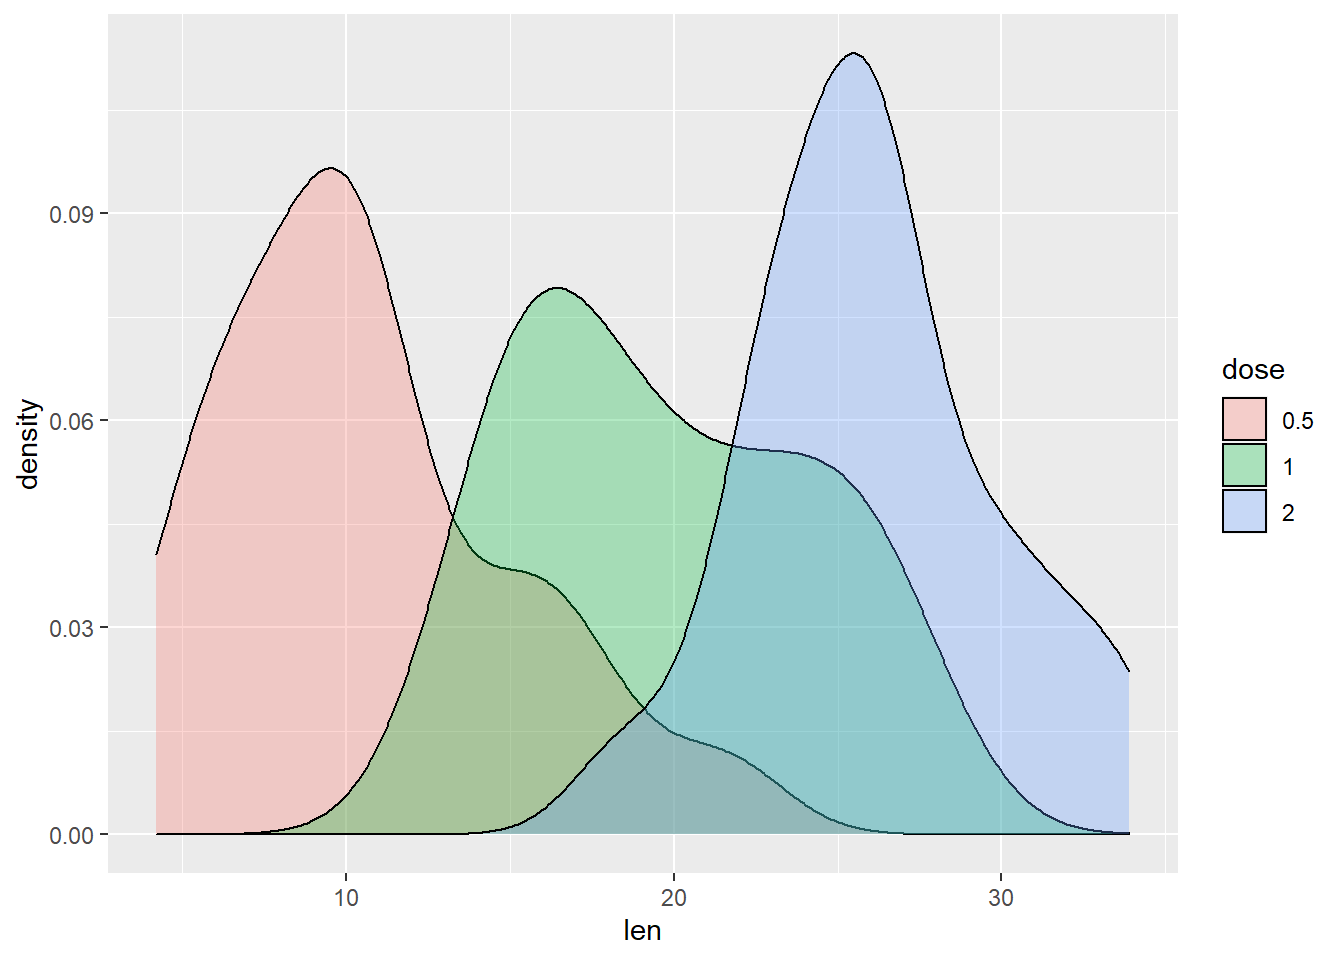
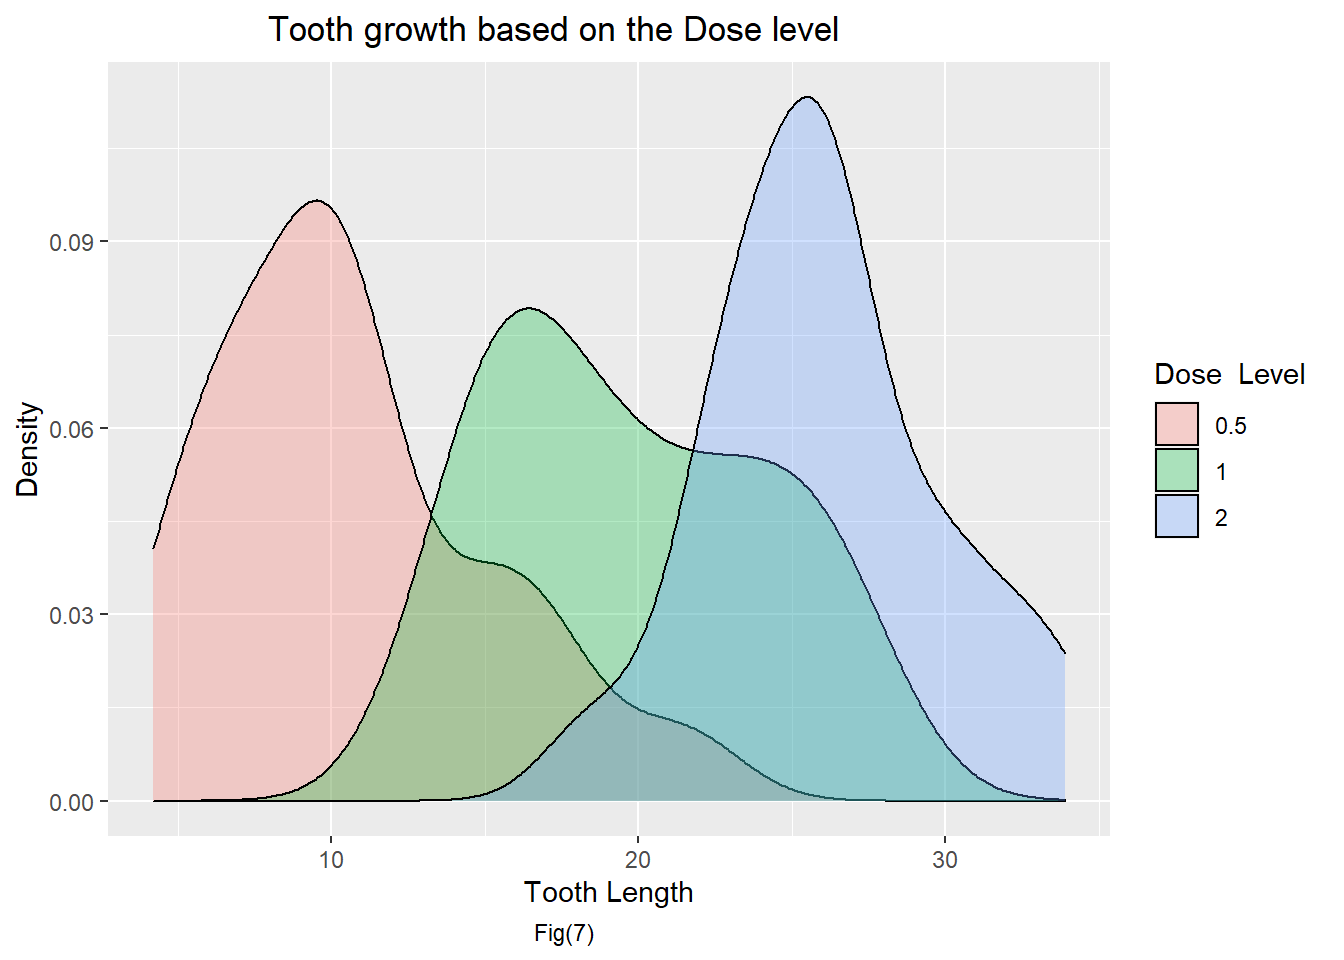
updated fig 7

diff --git a/public/2021/05/22/assignment-a01-ggplot2/index.html b/public/2021/05/22/assignment-a01-ggplot2/index.html
@@ -166,33 +166,17 @@ Fig (5), shows the distribution of tooth length for each dose delivery method.</
 <h3>Density of the tooth growth based on the dose level</h3>
 <pre class="r"><code>library(ggridges)
 ToothGrowth$dose &lt;- as.factor(ToothGrowth$dose)
-ggplot(ToothGrowth,aes(x=len, fill=dose)) + geom_density(alpha=0.3)</code></pre>
-<p><img src="/2021/05/22/assignment-a01-ggplot2/index_files/figure-html/unnamed-chunk-7-1.png" width="672" /></p>
-<pre class="r"><code>  labs(title=&quot;                Tooth growth based on the Dose level&quot;,x=&quot;Tooth Length&quot;,y=&quot;Density&quot;,fill=&quot;Dose  Level &quot;,caption = &quot;Fig(7)&quot;)</code></pre>
-<pre><code>## $x
-## [1] &quot;Tooth Length&quot;
-## 
-## $y
-## [1] &quot;Density&quot;
-## 
-## $fill
-## [1] &quot;Dose  Level &quot;
-## 
-## $title
-## [1] &quot;                Tooth growth based on the Dose level&quot;
-## 
-## $caption
-## [1] &quot;Fig(7)&quot;
-## 
-## attr(,&quot;class&quot;)
-## [1] &quot;labels&quot;</code></pre>
-<p>Fig (7), shows the distribution of tooth length for each dose level.</p>
+ggplot(ToothGrowth,aes(x=len, fill=dose)) + geom_density(alpha=0.3)+
+  labs(title=&quot;                Tooth growth based on the Dose level&quot;,x=&quot;Tooth Length&quot;,y=&quot;Density&quot;,fill=&quot;Dose  Level &quot;,caption = &quot;Fig(7)                                                                                      &quot;)</code></pre>
+<p><img src="/2021/05/22/assignment-a01-ggplot2/index_files/figure-html/unnamed-chunk-7-1.png" width="672" />
+Fig (7), shows the distribution of tooth length for each dose level.</p>
 </div>
 <div id="boxplot-for-the-tooth-length-distribution-based-on-the-dose-level" class="section level3">
 <h3>Boxplot for the tooth length distribution based on the dose level</h3>
 <pre class="r"><code>ggplot(ToothGrowth, aes(x = supp, y = len)) + geom_boxplot(aes(fill = dose))+
   labs(title=&quot;                        Tooth growth based on the dose level&quot;,x=&quot;Dose Level&quot;,y=&quot;Length&quot;,fill=&quot;Dose Level&quot;, caption = &quot;Fig(8)                                                                                    &quot;)</code></pre>
 <p><img src="/2021/05/22/assignment-a01-ggplot2/index_files/figure-html/unnamed-chunk-8-1.png" width="672" /></p>
+<p>Fig (8), shows the distribution of the tooth growth data based on each dose level. This boxplot shows the minimum, maximum, median, first quartile and third quartile in the data set.</p>
 </div>
 </div>
 

diff --git a/content/post/2021-05-22-assignment-a01-ggplot2/index.html b/content/post/2021-05-22-assignment-a01-ggplot2/index.html
@@ -101,32 +101,16 @@ Fig (5), shows the distribution of tooth length for each dose delivery method.</
 <h3>Density of the tooth growth based on the dose level</h3>
 <pre class="r"><code>library(ggridges)
 ToothGrowth$dose &lt;- as.factor(ToothGrowth$dose)
-ggplot(ToothGrowth,aes(x=len, fill=dose)) + geom_density(alpha=0.3)</code></pre>
-<p><img src="{{< blogdown/postref >}}index_files/figure-html/unnamed-chunk-7-1.png" width="672" /></p>
-<pre class="r"><code>  labs(title=&quot;                Tooth growth based on the Dose level&quot;,x=&quot;Tooth Length&quot;,y=&quot;Density&quot;,fill=&quot;Dose  Level &quot;,caption = &quot;Fig(7)&quot;)</code></pre>
-<pre><code>## $x
-## [1] &quot;Tooth Length&quot;
-## 
-## $y
-## [1] &quot;Density&quot;
-## 
-## $fill
-## [1] &quot;Dose  Level &quot;
-## 
-## $title
-## [1] &quot;                Tooth growth based on the Dose level&quot;
-## 
-## $caption
-## [1] &quot;Fig(7)&quot;
-## 
-## attr(,&quot;class&quot;)
-## [1] &quot;labels&quot;</code></pre>
-<p>Fig (7), shows the distribution of tooth length for each dose level.</p>
+ggplot(ToothGrowth,aes(x=len, fill=dose)) + geom_density(alpha=0.3)+
+  labs(title=&quot;                Tooth growth based on the Dose level&quot;,x=&quot;Tooth Length&quot;,y=&quot;Density&quot;,fill=&quot;Dose  Level &quot;,caption = &quot;Fig(7)                                                                                      &quot;)</code></pre>
+<p><img src="{{< blogdown/postref >}}index_files/figure-html/unnamed-chunk-7-1.png" width="672" />
+Fig (7), shows the distribution of tooth length for each dose level.</p>
 </div>
 <div id="boxplot-for-the-tooth-length-distribution-based-on-the-dose-level" class="section level3">
 <h3>Boxplot for the tooth length distribution based on the dose level</h3>
 <pre class="r"><code>ggplot(ToothGrowth, aes(x = supp, y = len)) + geom_boxplot(aes(fill = dose))+
   labs(title=&quot;                        Tooth growth based on the dose level&quot;,x=&quot;Dose Level&quot;,y=&quot;Length&quot;,fill=&quot;Dose Level&quot;, caption = &quot;Fig(8)                                                                                    &quot;)</code></pre>
 <p><img src="{{< blogdown/postref >}}index_files/figure-html/unnamed-chunk-8-1.png" width="672" /></p>
+<p>Fig (8), shows the distribution of the tooth growth data based on each dose level. This boxplot shows the minimum, maximum, median, first quartile and third quartile in the data set.</p>
 </div>
 </div>
